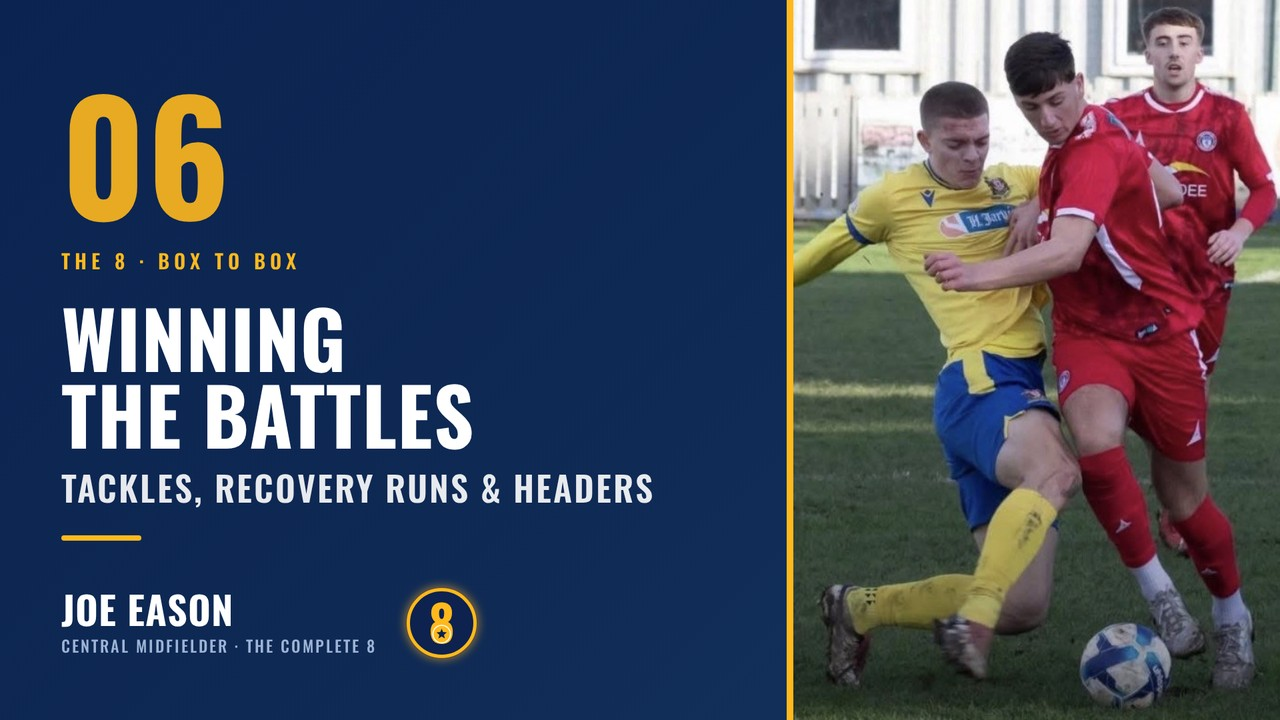
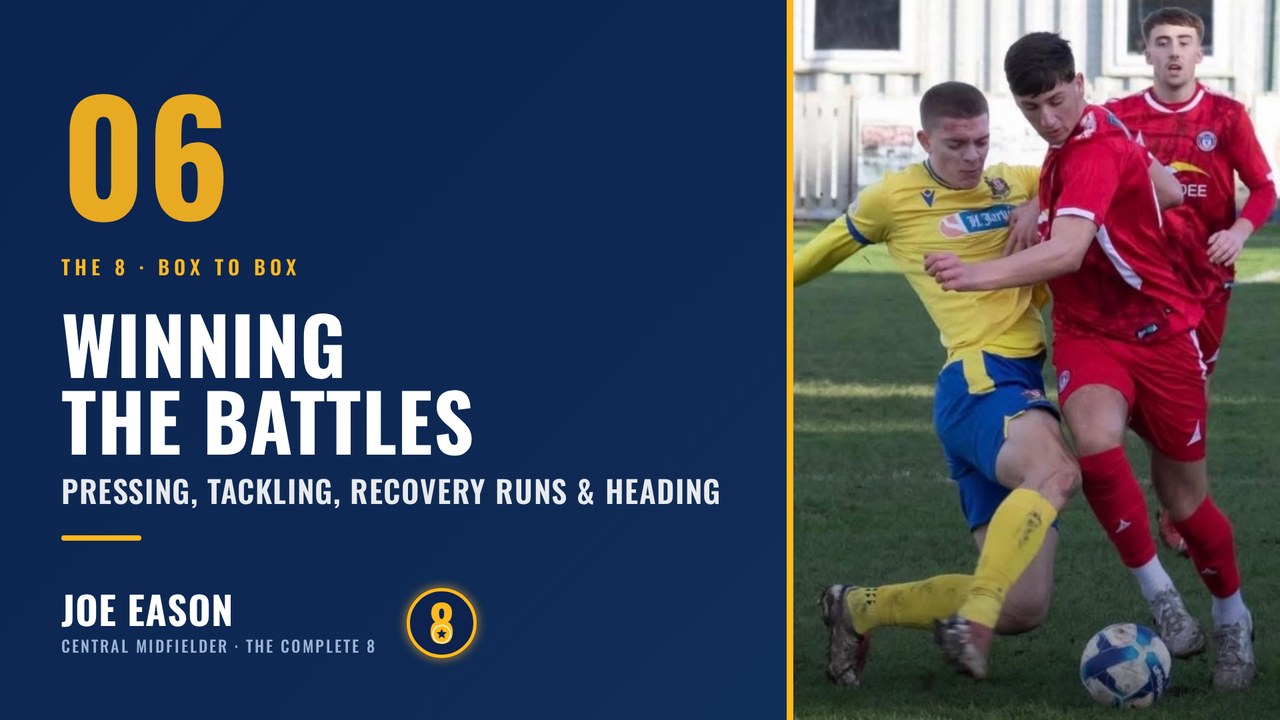
Videos

diff --git a/_test-home-8.html b/_test-home-8.html
@@ -1155,7 +1155,7 @@
             <g transform="translate(400.00 90.00)"><g class="petal-play"><circle r="24" fill="rgba(0,48,135,0.95)" stroke="#fff" stroke-width="2"/><polygon points="-7,-10 -7,10 10,0" fill="#fff"/></g></g>
             <g class="pt-full"><text x="400.00" y="192.00" class="petal-title" text-anchor="middle"><tspan x="400.00" dy="0">Press Resistance</tspan><tspan x="400.00" dy="18" class="petal-sub">Receiving &amp; Turning</tspan></text>
           <text x="400.00" y="168.00" class="petal-num" text-anchor="middle">01</text></g><g class="pt-big"><text x="400.00" y="163.50" class="petal-num pt-n" text-anchor="middle">01</text><text x="400.00" y="190.50" class="pt-t" text-anchor="middle"><tspan x="400.00" dy="0">Press</tspan><tspan x="400.00" dy="25">Resistance</tspan></text></g></a>
-          <a href="https://www.youtube.com/watch?v=Go0xgLNT-0k" target="_blank" rel="noopener" class="petal g6" data-vid="Go0xgLNT-0k" data-title="Screening the Back Four: Blocks, Cover &amp; Interceptions" aria-label="Screening the Back Four: Blocks, Cover & Interceptions — play video">
+          <a href="https://www.youtube.com/watch?v=RQgMkaj3DGI" target="_blank" rel="noopener" class="petal g6" data-vid="RQgMkaj3DGI" data-title="Screening the Back Four: Blocks, Cover &amp; Interceptions" aria-label="Screening the Back Four: Blocks, Cover & Interceptions — play video">
             <path d="M 467.68 268.38 A 148 148 0 0 1 543.38 363.30 L 768.13 305.77 A 380 380 0 0 0 573.78 62.07 Z" fill="url(#pat-p1)" class="petal-img"/>
             <path d="M 467.68 268.38 A 148 148 0 0 1 543.38 363.30 L 768.13 305.77 A 380 380 0 0 0 573.78 62.07 Z" fill="url(#darken)" class="petal-shade"/>
             <path d="M 467.68 268.38 A 148 148 0 0 1 543.38 363.30 L 768.13 305.77 A 380 380 0 0 0 573.78 62.07 Z" class="petal-stroke" fill="none"/>
@@ -1176,19 +1176,19 @@
             <g transform="translate(534.50 679.30)"><g class="petal-play"><circle r="24" fill="rgba(0,48,135,0.95)" stroke="#fff" stroke-width="2"/><polygon points="-7,-10 -7,10 10,0" fill="#fff"/></g></g>
             <g class="pt-full"><text x="490.25" y="579.40" class="petal-title" text-anchor="middle"><tspan x="490.25" dy="0">Running the Game</tspan><tspan x="490.25" dy="18" class="petal-sub">Controlling the Tempo</tspan><tspan x="490.25" dy="16" class="petal-sub">&amp; Breaking Lines</tspan></text>
           <text x="490.25" y="555.40" class="petal-num" text-anchor="middle">04</text></g><g class="pt-big"><text x="490.25" y="558.90" class="petal-num pt-n" text-anchor="middle">04</text><text x="490.25" y="585.90" class="pt-t" text-anchor="middle"><tspan x="490.25" dy="0">Running</tspan><tspan x="490.25" dy="25">the Game</tspan></text></g></a>
-          <a href="https://www.youtube.com/watch?v=tidNVF270xU" target="_blank" rel="noopener" class="petal g8" data-vid="tidNVF270xU" data-title="Driving the Team Forward: Ball Carrying" aria-label="Driving the Team Forward: Ball Carrying — play video">
+          <a href="https://www.youtube.com/watch?v=B1waNOyC7ts" target="_blank" rel="noopener" class="petal g8" data-vid="B1waNOyC7ts" data-title="Driving the Team Forward: Ball Carrying" aria-label="Driving the Team Forward: Ball Carrying — play video">
             <path d="M 396.13 547.95 A 148 148 0 0 1 286.74 495.27 L 109.21 644.62 A 380 380 0 0 0 390.05 779.87 Z" fill="url(#pat-p4)" class="petal-img"/>
             <path d="M 396.13 547.95 A 148 148 0 0 1 286.74 495.27 L 109.21 644.62 A 380 380 0 0 0 390.05 779.87 Z" fill="url(#darken)" class="petal-shade"/>
             <path d="M 396.13 547.95 A 148 148 0 0 1 286.74 495.27 L 109.21 644.62 A 380 380 0 0 0 390.05 779.87 Z" class="petal-stroke" fill="none"/>
             <g transform="translate(265.50 679.30)"><g class="petal-play"><circle r="24" fill="rgba(0,48,135,0.95)" stroke="#fff" stroke-width="2"/><polygon points="-7,-10 -7,10 10,0" fill="#fff"/></g></g>
             <g class="pt-full"><text x="309.75" y="578.40" class="petal-title" text-anchor="middle"><tspan x="309.75" dy="0">Driving the</tspan><tspan x="309.75" dy="18">Team Forward</tspan><tspan x="309.75" dy="18" class="petal-sub">Ball Carrying</tspan></text>
           <text x="309.75" y="554.40" class="petal-num" text-anchor="middle">05</text></g><g class="pt-big"><text x="309.75" y="558.90" class="petal-num pt-n" text-anchor="middle">05</text><text x="309.75" y="585.90" class="pt-t" text-anchor="middle"><tspan x="309.75" dy="0">Driving the</tspan><tspan x="309.75" dy="25">Team Forward</tspan></text></g></a>
-          <a href="https://www.youtube.com/watch?v=xvypi_6BQps" target="_blank" rel="noopener" class="petal g8" data-vid="xvypi_6BQps" data-title="Winning the Battles: Tackles, Recovery Runs &amp; Headers" aria-label="Winning the Battles: Tackles, Recovery Runs & Headers — play video">
+          <a href="https://www.youtube.com/watch?v=xvypi_6BQps" target="_blank" rel="noopener" class="petal g8" data-vid="xvypi_6BQps" data-title="Winning the Battles: Pressing, Tackling, Recovery Runs &amp; Heading" aria-label="Winning the Battles: Pressing, Tackling, Recovery Runs & Heading — play video">
             <path d="M 281.91 489.22 A 148 148 0 0 1 254.90 370.86 L 27.44 325.17 A 380 380 0 0 0 96.80 629.07 Z" fill="url(#pat-p5)" class="petal-img"/>
             <path d="M 281.91 489.22 A 148 148 0 0 1 254.90 370.86 L 27.44 325.17 A 380 380 0 0 0 96.80 629.07 Z" fill="url(#darken)" class="petal-shade"/>
             <path d="M 281.91 489.22 A 148 148 0 0 1 254.90 370.86 L 27.44 325.17 A 380 380 0 0 0 96.80 629.07 Z" class="petal-stroke" fill="none"/>
             <g transform="translate(97.77 468.98)"><g class="petal-play"><circle r="24" fill="rgba(0,48,135,0.95)" stroke="#fff" stroke-width="2"/><polygon points="-7,-10 -7,10 10,0" fill="#fff"/></g></g>
-            <g class="pt-full"><text x="197.21" y="428.28" class="petal-title" text-anchor="middle"><tspan x="197.21" dy="0">Winning</tspan><tspan x="197.21" dy="18">the Battles</tspan><tspan x="197.21" dy="18" class="petal-sub">Tackles, Recovery</tspan><tspan x="197.21" dy="16" class="petal-sub">Runs &amp; Headers</tspan></text>
+            <g class="pt-full"><text x="197.21" y="428.28" class="petal-title" text-anchor="middle"><tspan x="197.21" dy="0">Winning</tspan><tspan x="197.21" dy="18">the Battles</tspan><tspan x="197.21" dy="18" class="petal-sub">Pressing, Tackling,</tspan><tspan x="197.21" dy="16" class="petal-sub">Recovery Runs &amp; Heading</tspan></text>
           <text x="197.21" y="404.28" class="petal-num" text-anchor="middle">06</text></g><g class="pt-big"><text x="197.21" y="416.78" class="petal-num pt-n" text-anchor="middle">06</text><text x="197.21" y="443.78" class="pt-t" text-anchor="middle"><tspan x="197.21" dy="0">Winning</tspan><tspan x="197.21" dy="25">the Battles</tspan></text></g></a>
           <a href="https://www.youtube.com/watch?v=DMwCNd98Mjw" target="_blank" rel="noopener" class="petal g8" data-vid="DMwCNd98Mjw" data-title="Technical Quality: First Touch, Volleys &amp; Quick Feet" aria-label="Technical Quality: First Touch, Volleys & Quick Feet — play video">
             <path d="M 256.62 363.30 A 148 148 0 0 1 332.32 268.38 L 226.22 62.07 A 380 380 0 0 0 31.87 305.77 Z" fill="url(#pat-p6)" class="petal-img"/>
@@ -1225,7 +1225,7 @@
           <div class="m-tile-thumb"><img src="img/card-01.jpg" alt=""></div>
           <div class="m-tile-body"><h3><span class="m-num">01</span>Press Resistance: Receiving &amp; Turning</h3><p>Back foot, play forward</p></div>
         </a>
-        <a href="https://www.youtube.com/watch?v=Go0xgLNT-0k" target="_blank" rel="noopener" class="m-tile g6" data-vid="Go0xgLNT-0k" data-title="Screening the Back Four: Blocks, Cover &amp; Interceptions">
+        <a href="https://www.youtube.com/watch?v=RQgMkaj3DGI" target="_blank" rel="noopener" class="m-tile g6" data-vid="RQgMkaj3DGI" data-title="Screening the Back Four: Blocks, Cover &amp; Interceptions">
           <div class="m-tile-thumb"><img src="img/card-02.jpg" alt=""></div>
           <div class="m-tile-body"><h3><span class="m-num">02</span>Screening the Back Four: Blocks, Cover &amp; Interceptions</h3><p>Reading it, stepping in, screening the back four</p></div>
         </a>
@@ -1239,13 +1239,13 @@
           <div class="m-tile-body"><h3><span class="m-num">04</span>Running the Game: Controlling the Tempo &amp; Breaking Lines</h3><p>Playing through, always available, setting the pace</p></div>
         </a>
         <div class="m-group g8"><b>The 8</b>Box to box &middot; 05&ndash;07</div>
-        <a href="https://www.youtube.com/watch?v=tidNVF270xU" target="_blank" rel="noopener" class="m-tile g8" data-vid="tidNVF270xU" data-title="Driving the Team Forward: Ball Carrying">
+        <a href="https://www.youtube.com/watch?v=B1waNOyC7ts" target="_blank" rel="noopener" class="m-tile g8" data-vid="B1waNOyC7ts" data-title="Driving the Team Forward: Ball Carrying">
           <div class="m-tile-thumb"><img src="img/card-05.jpg" alt=""></div>
           <div class="m-tile-body"><h3><span class="m-num">05</span>Driving the Team Forward: Ball Carrying</h3><p>Driving runs, beating pressure</p></div>
         </a>
-        <a href="https://www.youtube.com/watch?v=xvypi_6BQps" target="_blank" rel="noopener" class="m-tile g8" data-vid="xvypi_6BQps" data-title="Winning the Battles: Tackles, Recovery Runs &amp; Headers">
+        <a href="https://www.youtube.com/watch?v=xvypi_6BQps" target="_blank" rel="noopener" class="m-tile g8" data-vid="xvypi_6BQps" data-title="Winning the Battles: Pressing, Tackling, Recovery Runs &amp; Heading">
           <div class="m-tile-thumb"><img src="img/card-06.jpg" alt=""></div>
-          <div class="m-tile-body"><h3><span class="m-num">06</span>Winning the Battles: Tackles, Recovery Runs &amp; Headers</h3><p>Going in, getting back, winning in the air</p></div>
+          <div class="m-tile-body"><h3><span class="m-num">06</span>Winning the Battles: Pressing, Tackling, Recovery Runs &amp; Heading</h3><p>Going in, getting back, winning in the air</p></div>
         </a>
         <a href="https://www.youtube.com/watch?v=DMwCNd98Mjw" target="_blank" rel="noopener" class="m-tile g8" data-vid="DMwCNd98Mjw" data-title="Technical Quality: First Touch, Volleys &amp; Quick Feet">
           <div class="m-tile-thumb"><img src="img/card-07.jpg" alt=""></div>
@@ -1269,9 +1269,9 @@
         <h2>The Complete 8</h2>
         <p>Seven competencies on film at Step 4 and Step 5, plus the intangibles that make the eighth &mdash; and the end product it all adds up to.</p>
         <a class="h8-analysis" href="central-midfielder.html"><span>What makes a good all-round central midfielder?</span><b>Read the analysis <i class="fas fa-arrow-right"></i></b></a>
-        <div class="kg kg6"><div class="kg-h"><span class="kg-t">The 6</span><span class="kg-s">Holding midfielder &middot; 01&ndash;03</span></div><a class="ki" data-k="0" href="https://www.youtube.com/watch?v=nmPGCvV8c5w" target="_blank" rel="noopener" data-vid="nmPGCvV8c5w" data-title="Press Resistance: Receiving &amp; Turning"><b>01</b><span class="ki-t">Press Resistance</span><span class="ki-s">Receiving &amp; Turning</span><span class="ki-d">Back foot, play forward</span></a><a class="ki" data-k="1" href="https://www.youtube.com/watch?v=Go0xgLNT-0k" target="_blank" rel="noopener" data-vid="Go0xgLNT-0k" data-title="Screening the Back Four: Blocks, Cover &amp; Interceptions"><b>02</b><span class="ki-t">Screening the Back Four</span><span class="ki-s">Blocks, Cover &amp; Interceptions</span><span class="ki-d">Reading it, stepping in, screening the back four</span></a><a class="ki" data-k="2" href="https://www.youtube.com/watch?v=DRo2E2lNBT0" target="_blank" rel="noopener" data-vid="DRo2E2lNBT0" data-title="Range of Passing: Forward Balls, Switches &amp; Crosses"><b>03</b><span class="ki-t">Range of Passing</span><span class="ki-s">Forward Balls, Switches &amp; Crosses</span><span class="ki-d">Switching play, crossing, delivery</span></a></div>
+        <div class="kg kg6"><div class="kg-h"><span class="kg-t">The 6</span><span class="kg-s">Holding midfielder &middot; 01&ndash;03</span></div><a class="ki" data-k="0" href="https://www.youtube.com/watch?v=nmPGCvV8c5w" target="_blank" rel="noopener" data-vid="nmPGCvV8c5w" data-title="Press Resistance: Receiving &amp; Turning"><b>01</b><span class="ki-t">Press Resistance</span><span class="ki-s">Receiving &amp; Turning</span><span class="ki-d">Back foot, play forward</span></a><a class="ki" data-k="1" href="https://www.youtube.com/watch?v=RQgMkaj3DGI" target="_blank" rel="noopener" data-vid="RQgMkaj3DGI" data-title="Screening the Back Four: Blocks, Cover &amp; Interceptions"><b>02</b><span class="ki-t">Screening the Back Four</span><span class="ki-s">Blocks, Cover &amp; Interceptions</span><span class="ki-d">Reading it, stepping in, screening the back four</span></a><a class="ki" data-k="2" href="https://www.youtube.com/watch?v=DRo2E2lNBT0" target="_blank" rel="noopener" data-vid="DRo2E2lNBT0" data-title="Range of Passing: Forward Balls, Switches &amp; Crosses"><b>03</b><span class="ki-t">Range of Passing</span><span class="ki-s">Forward Balls, Switches &amp; Crosses</span><span class="ki-d">Switching play, crossing, delivery</span></a></div>
         <div class="kg kgh"><div class="kg-h"><span class="kg-t">Running the Game</span><span class="kg-s">The 6 into the 8 &middot; 04</span></div><a class="ki" data-k="3" href="https://www.youtube.com/watch?v=Oh14U_1x-bk" target="_blank" rel="noopener" data-vid="Oh14U_1x-bk" data-title="Running the Game: Controlling the Tempo &amp; Breaking Lines"><b>04</b><span class="ki-t">Running the Game</span><span class="ki-s">Controlling the Tempo &amp; Breaking Lines</span><span class="ki-d">Playing through, always available, setting the pace</span></a></div>
-        <div class="kg kg8"><div class="kg-h"><span class="kg-t">The 8</span><span class="kg-s">Box to box &middot; 05&ndash;07</span></div><a class="ki" data-k="4" href="https://www.youtube.com/watch?v=tidNVF270xU" target="_blank" rel="noopener" data-vid="tidNVF270xU" data-title="Driving the Team Forward: Ball Carrying"><b>05</b><span class="ki-t">Driving the Team Forward</span><span class="ki-s">Ball Carrying</span><span class="ki-d">Driving runs, beating pressure</span></a><a class="ki" data-k="5" href="https://www.youtube.com/watch?v=xvypi_6BQps" target="_blank" rel="noopener" data-vid="xvypi_6BQps" data-title="Winning the Battles: Tackles, Recovery Runs &amp; Headers"><b>06</b><span class="ki-t">Winning the Battles</span><span class="ki-s">Tackles, Recovery Runs &amp; Headers</span><span class="ki-d">Going in, getting back, winning in the air</span></a><a class="ki" data-k="6" href="https://www.youtube.com/watch?v=DMwCNd98Mjw" target="_blank" rel="noopener" data-vid="DMwCNd98Mjw" data-title="Technical Quality: First Touch, Volleys &amp; Quick Feet"><b>07</b><span class="ki-t">Technical Quality</span><span class="ki-s">First Touch, Volleys &amp; Quick Feet</span><span class="ki-d">First touch, composure, execution</span></a></div>
+        <div class="kg kg8"><div class="kg-h"><span class="kg-t">The 8</span><span class="kg-s">Box to box &middot; 05&ndash;07</span></div><a class="ki" data-k="4" href="https://www.youtube.com/watch?v=B1waNOyC7ts" target="_blank" rel="noopener" data-vid="B1waNOyC7ts" data-title="Driving the Team Forward: Ball Carrying"><b>05</b><span class="ki-t">Driving the Team Forward</span><span class="ki-s">Ball Carrying</span><span class="ki-d">Driving runs, beating pressure</span></a><a class="ki" data-k="5" href="https://www.youtube.com/watch?v=xvypi_6BQps" target="_blank" rel="noopener" data-vid="xvypi_6BQps" data-title="Winning the Battles: Pressing, Tackling, Recovery Runs &amp; Heading"><b>06</b><span class="ki-t">Winning the Battles</span><span class="ki-s">Pressing, Tackling, Recovery Runs &amp; Heading</span><span class="ki-d">Going in, getting back, winning in the air</span></a><a class="ki" data-k="6" href="https://www.youtube.com/watch?v=DMwCNd98Mjw" target="_blank" rel="noopener" data-vid="DMwCNd98Mjw" data-title="Technical Quality: First Touch, Volleys &amp; Quick Feet"><b>07</b><span class="ki-t">Technical Quality</span><span class="ki-s">First Touch, Volleys &amp; Quick Feet</span><span class="ki-d">First touch, composure, execution</span></a></div>
         <div class="kg kg10"><div class="kg-h"><span class="kg-t">08 + The 10</span><span class="kg-s">In the middle</span></div><a class="ki ki8th" data-k="8th" href="central-midfielder.html#leadership"><b>08</b><span class="ki-t">The Bit You Can&rsquo;t Coach</span><span class="ki-s">The Intangibles</span><span class="ki-d">Leadership and on-field personality</span></a><a class="ki ki10" data-k="10" href="https://www.youtube.com/watch?v=8nT0fmOoSeg" target="_blank" rel="noopener" data-vid="8nT0fmOoSeg" data-title="End Product: Chances Created, Assists &amp; Goals" data-more="central-midfielder.html#end-product"><b>10</b><span class="ki-t">End Product</span><span class="ki-s">Chances Created, Assists &amp; Goals</span><span class="ki-d">From senior men&rsquo;s football at Step 5 and Step 4</span></a></div>
       </div>
   </div>

diff --git a/index.html b/index.html
@@ -1150,7 +1150,7 @@
             <g transform="translate(400.00 90.00)"><g class="petal-play"><circle r="24" fill="rgba(0,48,135,0.95)" stroke="#fff" stroke-width="2"/><polygon points="-7,-10 -7,10 10,0" fill="#fff"/></g></g>
             <g class="pt-full"><text x="400.00" y="192.00" class="petal-title" text-anchor="middle"><tspan x="400.00" dy="0">Press Resistance</tspan><tspan x="400.00" dy="18" class="petal-sub">Receiving &amp; Turning</tspan></text>
           <text x="400.00" y="168.00" class="petal-num" text-anchor="middle">01</text></g><g class="pt-big"><text x="400.00" y="163.50" class="petal-num pt-n" text-anchor="middle">01</text><text x="400.00" y="190.50" class="pt-t" text-anchor="middle"><tspan x="400.00" dy="0">Press</tspan><tspan x="400.00" dy="25">Resistance</tspan></text></g></a>
-          <a href="https://www.youtube.com/watch?v=Go0xgLNT-0k" target="_blank" rel="noopener" class="petal g6" data-vid="Go0xgLNT-0k" data-title="Screening the Back Four: Blocks, Cover &amp; Interceptions" aria-label="Screening the Back Four: Blocks, Cover & Interceptions — play video">
+          <a href="https://www.youtube.com/watch?v=RQgMkaj3DGI" target="_blank" rel="noopener" class="petal g6" data-vid="RQgMkaj3DGI" data-title="Screening the Back Four: Blocks, Cover &amp; Interceptions" aria-label="Screening the Back Four: Blocks, Cover & Interceptions — play video">
             <path d="M 467.68 268.38 A 148 148 0 0 1 543.38 363.30 L 768.13 305.77 A 380 380 0 0 0 573.78 62.07 Z" fill="url(#pat-p1)" class="petal-img"/>
             <path d="M 467.68 268.38 A 148 148 0 0 1 543.38 363.30 L 768.13 305.77 A 380 380 0 0 0 573.78 62.07 Z" fill="url(#darken)" class="petal-shade"/>
             <path d="M 467.68 268.38 A 148 148 0 0 1 543.38 363.30 L 768.13 305.77 A 380 380 0 0 0 573.78 62.07 Z" class="petal-stroke" fill="none"/>
@@ -1171,19 +1171,19 @@
             <g transform="translate(534.50 679.30)"><g class="petal-play"><circle r="24" fill="rgba(0,48,135,0.95)" stroke="#fff" stroke-width="2"/><polygon points="-7,-10 -7,10 10,0" fill="#fff"/></g></g>
             <g class="pt-full"><text x="490.25" y="579.40" class="petal-title" text-anchor="middle"><tspan x="490.25" dy="0">Running the Game</tspan><tspan x="490.25" dy="18" class="petal-sub">Controlling the Tempo</tspan><tspan x="490.25" dy="16" class="petal-sub">&amp; Breaking Lines</tspan></text>
           <text x="490.25" y="555.40" class="petal-num" text-anchor="middle">04</text></g><g class="pt-big"><text x="490.25" y="558.90" class="petal-num pt-n" text-anchor="middle">04</text><text x="490.25" y="585.90" class="pt-t" text-anchor="middle"><tspan x="490.25" dy="0">Running</tspan><tspan x="490.25" dy="25">the Game</tspan></text></g></a>
-          <a href="https://www.youtube.com/watch?v=tidNVF270xU" target="_blank" rel="noopener" class="petal g8" data-vid="tidNVF270xU" data-title="Driving the Team Forward: Ball Carrying" aria-label="Driving the Team Forward: Ball Carrying — play video">
+          <a href="https://www.youtube.com/watch?v=B1waNOyC7ts" target="_blank" rel="noopener" class="petal g8" data-vid="B1waNOyC7ts" data-title="Driving the Team Forward: Ball Carrying" aria-label="Driving the Team Forward: Ball Carrying — play video">
             <path d="M 396.13 547.95 A 148 148 0 0 1 286.74 495.27 L 109.21 644.62 A 380 380 0 0 0 390.05 779.87 Z" fill="url(#pat-p4)" class="petal-img"/>
             <path d="M 396.13 547.95 A 148 148 0 0 1 286.74 495.27 L 109.21 644.62 A 380 380 0 0 0 390.05 779.87 Z" fill="url(#darken)" class="petal-shade"/>
             <path d="M 396.13 547.95 A 148 148 0 0 1 286.74 495.27 L 109.21 644.62 A 380 380 0 0 0 390.05 779.87 Z" class="petal-stroke" fill="none"/>
             <g transform="translate(265.50 679.30)"><g class="petal-play"><circle r="24" fill="rgba(0,48,135,0.95)" stroke="#fff" stroke-width="2"/><polygon points="-7,-10 -7,10 10,0" fill="#fff"/></g></g>
             <g class="pt-full"><text x="309.75" y="578.40" class="petal-title" text-anchor="middle"><tspan x="309.75" dy="0">Driving the</tspan><tspan x="309.75" dy="18">Team Forward</tspan><tspan x="309.75" dy="18" class="petal-sub">Ball Carrying</tspan></text>
           <text x="309.75" y="554.40" class="petal-num" text-anchor="middle">05</text></g><g class="pt-big"><text x="309.75" y="558.90" class="petal-num pt-n" text-anchor="middle">05</text><text x="309.75" y="585.90" class="pt-t" text-anchor="middle"><tspan x="309.75" dy="0">Driving the</tspan><tspan x="309.75" dy="25">Team Forward</tspan></text></g></a>
-          <a href="https://www.youtube.com/watch?v=xvypi_6BQps" target="_blank" rel="noopener" class="petal g8" data-vid="xvypi_6BQps" data-title="Winning the Battles: Tackles, Recovery Runs &amp; Headers" aria-label="Winning the Battles: Tackles, Recovery Runs & Headers — play video">
+          <a href="https://www.youtube.com/watch?v=xvypi_6BQps" target="_blank" rel="noopener" class="petal g8" data-vid="xvypi_6BQps" data-title="Winning the Battles: Pressing, Tackling, Recovery Runs &amp; Heading" aria-label="Winning the Battles: Pressing, Tackling, Recovery Runs & Heading — play video">
             <path d="M 281.91 489.22 A 148 148 0 0 1 254.90 370.86 L 27.44 325.17 A 380 380 0 0 0 96.80 629.07 Z" fill="url(#pat-p5)" class="petal-img"/>
             <path d="M 281.91 489.22 A 148 148 0 0 1 254.90 370.86 L 27.44 325.17 A 380 380 0 0 0 96.80 629.07 Z" fill="url(#darken)" class="petal-shade"/>
             <path d="M 281.91 489.22 A 148 148 0 0 1 254.90 370.86 L 27.44 325.17 A 380 380 0 0 0 96.80 629.07 Z" class="petal-stroke" fill="none"/>
             <g transform="translate(97.77 468.98)"><g class="petal-play"><circle r="24" fill="rgba(0,48,135,0.95)" stroke="#fff" stroke-width="2"/><polygon points="-7,-10 -7,10 10,0" fill="#fff"/></g></g>
-            <g class="pt-full"><text x="197.21" y="428.28" class="petal-title" text-anchor="middle"><tspan x="197.21" dy="0">Winning</tspan><tspan x="197.21" dy="18">the Battles</tspan><tspan x="197.21" dy="18" class="petal-sub">Tackles, Recovery</tspan><tspan x="197.21" dy="16" class="petal-sub">Runs &amp; Headers</tspan></text>
+            <g class="pt-full"><text x="197.21" y="428.28" class="petal-title" text-anchor="middle"><tspan x="197.21" dy="0">Winning</tspan><tspan x="197.21" dy="18">the Battles</tspan><tspan x="197.21" dy="18" class="petal-sub">Pressing, Tackling,</tspan><tspan x="197.21" dy="16" class="petal-sub">Recovery Runs &amp; Heading</tspan></text>
           <text x="197.21" y="404.28" class="petal-num" text-anchor="middle">06</text></g><g class="pt-big"><text x="197.21" y="416.78" class="petal-num pt-n" text-anchor="middle">06</text><text x="197.21" y="443.78" class="pt-t" text-anchor="middle"><tspan x="197.21" dy="0">Winning</tspan><tspan x="197.21" dy="25">the Battles</tspan></text></g></a>
           <a href="https://www.youtube.com/watch?v=DMwCNd98Mjw" target="_blank" rel="noopener" class="petal g8" data-vid="DMwCNd98Mjw" data-title="Technical Quality: First Touch, Volleys &amp; Quick Feet" aria-label="Technical Quality: First Touch, Volleys & Quick Feet — play video">
             <path d="M 256.62 363.30 A 148 148 0 0 1 332.32 268.38 L 226.22 62.07 A 380 380 0 0 0 31.87 305.77 Z" fill="url(#pat-p6)" class="petal-img"/>
@@ -1220,7 +1220,7 @@
           <div class="m-tile-thumb"><img src="img/card-01.jpg" alt=""></div>
           <div class="m-tile-body"><h3><span class="m-num">01</span>Press Resistance: Receiving &amp; Turning</h3><p>Back foot, play forward</p></div>
         </a>
-        <a href="https://www.youtube.com/watch?v=Go0xgLNT-0k" target="_blank" rel="noopener" class="m-tile g6" data-vid="Go0xgLNT-0k" data-title="Screening the Back Four: Blocks, Cover &amp; Interceptions">
+        <a href="https://www.youtube.com/watch?v=RQgMkaj3DGI" target="_blank" rel="noopener" class="m-tile g6" data-vid="RQgMkaj3DGI" data-title="Screening the Back Four: Blocks, Cover &amp; Interceptions">
           <div class="m-tile-thumb"><img src="img/card-02.jpg" alt=""></div>
           <div class="m-tile-body"><h3><span class="m-num">02</span>Screening the Back Four: Blocks, Cover &amp; Interceptions</h3><p>Reading it, stepping in, screening the back four</p></div>
         </a>
@@ -1234,13 +1234,13 @@
           <div class="m-tile-body"><h3><span class="m-num">04</span>Running the Game: Controlling the Tempo &amp; Breaking Lines</h3><p>Playing through, always available, setting the pace</p></div>
         </a>
         <div class="m-group g8"><b>The 8</b>Box to box &middot; 05&ndash;07</div>
-        <a href="https://www.youtube.com/watch?v=tidNVF270xU" target="_blank" rel="noopener" class="m-tile g8" data-vid="tidNVF270xU" data-title="Driving the Team Forward: Ball Carrying">
+        <a href="https://www.youtube.com/watch?v=B1waNOyC7ts" target="_blank" rel="noopener" class="m-tile g8" data-vid="B1waNOyC7ts" data-title="Driving the Team Forward: Ball Carrying">
           <div class="m-tile-thumb"><img src="img/card-05.jpg" alt=""></div>
           <div class="m-tile-body"><h3><span class="m-num">05</span>Driving the Team Forward: Ball Carrying</h3><p>Driving runs, beating pressure</p></div>
         </a>
-        <a href="https://www.youtube.com/watch?v=xvypi_6BQps" target="_blank" rel="noopener" class="m-tile g8" data-vid="xvypi_6BQps" data-title="Winning the Battles: Tackles, Recovery Runs &amp; Headers">
+        <a href="https://www.youtube.com/watch?v=xvypi_6BQps" target="_blank" rel="noopener" class="m-tile g8" data-vid="xvypi_6BQps" data-title="Winning the Battles: Pressing, Tackling, Recovery Runs &amp; Heading">
           <div class="m-tile-thumb"><img src="img/card-06.jpg" alt=""></div>
-          <div class="m-tile-body"><h3><span class="m-num">06</span>Winning the Battles: Tackles, Recovery Runs &amp; Headers</h3><p>Going in, getting back, winning in the air</p></div>
+          <div class="m-tile-body"><h3><span class="m-num">06</span>Winning the Battles: Pressing, Tackling, Recovery Runs &amp; Heading</h3><p>Going in, getting back, winning in the air</p></div>
         </a>
         <a href="https://www.youtube.com/watch?v=DMwCNd98Mjw" target="_blank" rel="noopener" class="m-tile g8" data-vid="DMwCNd98Mjw" data-title="Technical Quality: First Touch, Volleys &amp; Quick Feet">
           <div class="m-tile-thumb"><img src="img/card-07.jpg" alt=""></div>
@@ -1264,9 +1264,9 @@
         <h2>The Complete 8</h2>
         <p>Seven competencies on film at Step 4 and Step 5, plus the intangibles that make the eighth &mdash; and the end product it all adds up to.</p>
         <a class="h8-analysis" href="central-midfielder.html"><span>What makes a good all-round central midfielder?</span><b>Read the analysis <i class="fas fa-arrow-right"></i></b></a>
-        <div class="kg kg6"><div class="kg-h"><span class="kg-t">The 6</span><span class="kg-s">Holding midfielder &middot; 01&ndash;03</span></div><a class="ki" data-k="0" href="https://www.youtube.com/watch?v=nmPGCvV8c5w" target="_blank" rel="noopener" data-vid="nmPGCvV8c5w" data-title="Press Resistance: Receiving &amp; Turning"><b>01</b><span class="ki-t">Press Resistance</span><span class="ki-s">Receiving &amp; Turning</span><span class="ki-d">Back foot, play forward</span></a><a class="ki" data-k="1" href="https://www.youtube.com/watch?v=Go0xgLNT-0k" target="_blank" rel="noopener" data-vid="Go0xgLNT-0k" data-title="Screening the Back Four: Blocks, Cover &amp; Interceptions"><b>02</b><span class="ki-t">Screening the Back Four</span><span class="ki-s">Blocks, Cover &amp; Interceptions</span><span class="ki-d">Reading it, stepping in, screening the back four</span></a><a class="ki" data-k="2" href="https://www.youtube.com/watch?v=DRo2E2lNBT0" target="_blank" rel="noopener" data-vid="DRo2E2lNBT0" data-title="Range of Passing: Forward Balls, Switches &amp; Crosses"><b>03</b><span class="ki-t">Range of Passing</span><span class="ki-s">Forward Balls, Switches &amp; Crosses</span><span class="ki-d">Switching play, crossing, delivery</span></a></div>
+        <div class="kg kg6"><div class="kg-h"><span class="kg-t">The 6</span><span class="kg-s">Holding midfielder &middot; 01&ndash;03</span></div><a class="ki" data-k="0" href="https://www.youtube.com/watch?v=nmPGCvV8c5w" target="_blank" rel="noopener" data-vid="nmPGCvV8c5w" data-title="Press Resistance: Receiving &amp; Turning"><b>01</b><span class="ki-t">Press Resistance</span><span class="ki-s">Receiving &amp; Turning</span><span class="ki-d">Back foot, play forward</span></a><a class="ki" data-k="1" href="https://www.youtube.com/watch?v=RQgMkaj3DGI" target="_blank" rel="noopener" data-vid="RQgMkaj3DGI" data-title="Screening the Back Four: Blocks, Cover &amp; Interceptions"><b>02</b><span class="ki-t">Screening the Back Four</span><span class="ki-s">Blocks, Cover &amp; Interceptions</span><span class="ki-d">Reading it, stepping in, screening the back four</span></a><a class="ki" data-k="2" href="https://www.youtube.com/watch?v=DRo2E2lNBT0" target="_blank" rel="noopener" data-vid="DRo2E2lNBT0" data-title="Range of Passing: Forward Balls, Switches &amp; Crosses"><b>03</b><span class="ki-t">Range of Passing</span><span class="ki-s">Forward Balls, Switches &amp; Crosses</span><span class="ki-d">Switching play, crossing, delivery</span></a></div>
         <div class="kg kgh"><div class="kg-h"><span class="kg-t">Running the Game</span><span class="kg-s">The 6 into the 8 &middot; 04</span></div><a class="ki" data-k="3" href="https://www.youtube.com/watch?v=Oh14U_1x-bk" target="_blank" rel="noopener" data-vid="Oh14U_1x-bk" data-title="Running the Game: Controlling the Tempo &amp; Breaking Lines"><b>04</b><span class="ki-t">Running the Game</span><span class="ki-s">Controlling the Tempo &amp; Breaking Lines</span><span class="ki-d">Playing through, always available, setting the pace</span></a></div>
-        <div class="kg kg8"><div class="kg-h"><span class="kg-t">The 8</span><span class="kg-s">Box to box &middot; 05&ndash;07</span></div><a class="ki" data-k="4" href="https://www.youtube.com/watch?v=tidNVF270xU" target="_blank" rel="noopener" data-vid="tidNVF270xU" data-title="Driving the Team Forward: Ball Carrying"><b>05</b><span class="ki-t">Driving the Team Forward</span><span class="ki-s">Ball Carrying</span><span class="ki-d">Driving runs, beating pressure</span></a><a class="ki" data-k="5" href="https://www.youtube.com/watch?v=xvypi_6BQps" target="_blank" rel="noopener" data-vid="xvypi_6BQps" data-title="Winning the Battles: Tackles, Recovery Runs &amp; Headers"><b>06</b><span class="ki-t">Winning the Battles</span><span class="ki-s">Tackles, Recovery Runs &amp; Headers</span><span class="ki-d">Going in, getting back, winning in the air</span></a><a class="ki" data-k="6" href="https://www.youtube.com/watch?v=DMwCNd98Mjw" target="_blank" rel="noopener" data-vid="DMwCNd98Mjw" data-title="Technical Quality: First Touch, Volleys &amp; Quick Feet"><b>07</b><span class="ki-t">Technical Quality</span><span class="ki-s">First Touch, Volleys &amp; Quick Feet</span><span class="ki-d">First touch, composure, execution</span></a></div>
+        <div class="kg kg8"><div class="kg-h"><span class="kg-t">The 8</span><span class="kg-s">Box to box &middot; 05&ndash;07</span></div><a class="ki" data-k="4" href="https://www.youtube.com/watch?v=B1waNOyC7ts" target="_blank" rel="noopener" data-vid="B1waNOyC7ts" data-title="Driving the Team Forward: Ball Carrying"><b>05</b><span class="ki-t">Driving the Team Forward</span><span class="ki-s">Ball Carrying</span><span class="ki-d">Driving runs, beating pressure</span></a><a class="ki" data-k="5" href="https://www.youtube.com/watch?v=xvypi_6BQps" target="_blank" rel="noopener" data-vid="xvypi_6BQps" data-title="Winning the Battles: Pressing, Tackling, Recovery Runs &amp; Heading"><b>06</b><span class="ki-t">Winning the Battles</span><span class="ki-s">Pressing, Tackling, Recovery Runs &amp; Heading</span><span class="ki-d">Going in, getting back, winning in the air</span></a><a class="ki" data-k="6" href="https://www.youtube.com/watch?v=DMwCNd98Mjw" target="_blank" rel="noopener" data-vid="DMwCNd98Mjw" data-title="Technical Quality: First Touch, Volleys &amp; Quick Feet"><b>07</b><span class="ki-t">Technical Quality</span><span class="ki-s">First Touch, Volleys &amp; Quick Feet</span><span class="ki-d">First touch, composure, execution</span></a></div>
         <div class="kg kg10"><div class="kg-h"><span class="kg-t">08 + The 10</span><span class="kg-s">In the middle</span></div><a class="ki ki8th" data-k="8th" href="central-midfielder.html#leadership"><b>08</b><span class="ki-t">The Bit You Can&rsquo;t Coach</span><span class="ki-s">The Intangibles</span><span class="ki-d">Leadership and on-field personality</span></a><a class="ki ki10" data-k="10" href="https://www.youtube.com/watch?v=8nT0fmOoSeg" target="_blank" rel="noopener" data-vid="8nT0fmOoSeg" data-title="End Product: Chances Created, Assists &amp; Goals" data-more="central-midfielder.html#end-product"><b>10</b><span class="ki-t">End Product</span><span class="ki-s">Chances Created, Assists &amp; Goals</span><span class="ki-d">From senior men&rsquo;s football at Step 5 and Step 4</span></a></div>
       </div>
   </div>

diff --git a/central-midfielder.html b/central-midfielder.html
@@ -793,7 +793,7 @@
       </button>
       <button class="c8-tab g8" data-tab="7" role="tab" aria-selected="false" type="button">
         <div class="c8-tab-thumb"><img src="img/card-06.jpg" alt=""><span class="c8-tab-num">06</span></div>
-        <div class="c8-tab-title">Winning the Battles: Tackles, Recovery Runs &amp; Headers</div>
+        <div class="c8-tab-title">Winning the Battles: Pressing, Tackling, Recovery Runs &amp; Heading</div>
       </button>
       <button class="c8-tab g8" data-tab="2" role="tab" aria-selected="false" type="button">
         <div class="c8-tab-thumb"><img src="img/card-07.jpg" alt=""><span class="c8-tab-num">07</span></div>
@@ -835,7 +835,7 @@
             </div>
           </div>
           <p class="case-lead">A number 8 who can only recycle gives the opposition time to reset. The complete version <strong>takes the ball forward themselves</strong> — recognising the moment, breaking the line before cover arrives, and forcing defenders to commit. Without ball-carrying weight in midfield, the team has to play wider or rely on patterns the opposition can read.</p>
-          <a href="https://www.youtube.com/watch?v=tidNVF270xU" target="_blank" rel="noopener" class="skill-video" data-vid="tidNVF270xU" id="vid-1">
+          <a href="https://www.youtube.com/watch?v=B1waNOyC7ts" target="_blank" rel="noopener" class="skill-video" data-vid="B1waNOyC7ts" id="vid-1">
             <img src="img/card-05.jpg" alt="Driving the Team Forward: Ball Carrying">
             <div class="play-btn"><i class="fas fa-play"></i></div>
             <div class="vid-label"><i class="fas fa-play" style="font-size:8px;margin-right:4px;"></i> Watch Video</div>
@@ -1095,7 +1095,7 @@
             </div>
           </div>
           <p class="case-lead">A midfielder who can't defend is half a player. The complete 8 <strong>reads the game early</strong>, wins the ball cleanly when needed, and covers ground for the centre-backs without being asked. The video shows the actions. The chart underneath shows the season-long outcome.</p>
-          <a href="https://www.youtube.com/watch?v=Go0xgLNT-0k" target="_blank" rel="noopener" class="skill-video" data-vid="Go0xgLNT-0k" id="vid-6">
+          <a href="https://www.youtube.com/watch?v=RQgMkaj3DGI" target="_blank" rel="noopener" class="skill-video" data-vid="RQgMkaj3DGI" id="vid-6">
             <img src="img/card-02.jpg" alt="Screening the Back Four: Blocks, Cover & Interceptions">
             <div class="play-btn"><i class="fas fa-play"></i></div>
             <div class="vid-label"><i class="fas fa-play" style="font-size:8px;margin-right:4px;"></i> Watch Video</div>
@@ -1167,12 +1167,12 @@
             <span class="num">06</span>
             <div class="heads">
               <span class="role">What a complete 8 needs to do</span>
-              <h3>Winning the Battles: Tackles, Recovery Runs &amp; Headers</h3>
+              <h3>Winning the Battles: Pressing, Tackling, Recovery Runs &amp; Heading</h3>
             </div>
           </div>
           <p class="case-lead">When the team loses the ball higher up, the 8 is usually <strong>first one back</strong>. Sprint back, get goal-side, deal with what arrives — including in the air. The video shows the runs and the duels. The athletic numbers underneath are what underwrites them.</p>
           <a href="https://www.youtube.com/watch?v=xvypi_6BQps" target="_blank" rel="noopener" class="skill-video" data-vid="xvypi_6BQps" id="vid-7">
-            <img src="img/card-06.jpg" alt="Winning the Battles: Tackles, Recovery Runs & Headers">
+            <img src="img/card-06.jpg" alt="Winning the Battles: Pressing, Tackling, Recovery Runs & Heading">
             <div class="play-btn"><i class="fas fa-play"></i></div>
             <div class="vid-label"><i class="fas fa-play" style="font-size:8px;margin-right:4px;"></i> Watch Video</div>
           </a>

diff --git a/_c8-start-card.html b/_c8-start-card.html
@@ -53,7 +53,7 @@ document.getElementById('eyebrow').textContent=q.get('e')||'';
 const t=document.getElementById('title'); t.innerHTML=q.get('t')||''; if((q.get('t')||'').length>22) t.classList.add('long');
 const s=document.getElementById('subt'); if(q.get('s')) s.textContent=q.get('s'); else s.remove();
 // a subline that only just spills onto a second line gets its letter-spacing eased until it fits on one (8 Nov 2026)
-document.fonts.ready.then(function(){const e=document.getElementById('subt'); if(!e) return; const lh=parseFloat(getComputedStyle(e).lineHeight)||e.getBoundingClientRect().height; let ls=3; const one=()=>{e.style.whiteSpace='nowrap'; const h1=e.getBoundingClientRect().height; e.style.whiteSpace=''; return h1;}; const h1=one(); while(e.getBoundingClientRect().height>h1+2 && ls>1.6){ls=+(ls-0.2).toFixed(1); e.style.letterSpacing=ls+'px';}});
+document.fonts.ready.then(function(){const e=document.getElementById('subt'); if(!e) return; const lh=parseFloat(getComputedStyle(e).lineHeight)||e.getBoundingClientRect().height; let ls=3; const one=()=>{e.style.whiteSpace='nowrap'; const h1=e.getBoundingClientRect().height; e.style.whiteSpace=''; return h1;}; const h1=one(); while(e.getBoundingClientRect().height>h1+2 && ls>1.6){ls=+(ls-0.2).toFixed(1); e.style.letterSpacing=ls+'px';} /* 11 Nov 2026: if it still wraps, step the size down until it fits on one line */ let fs=parseFloat(getComputedStyle(e).fontSize); while(e.getBoundingClientRect().height>h1+2 && fs>24){fs-=1; e.style.fontSize=fs+'px';}});
 const p=document.getElementById('photo'); const im=q.get('img')||''; p.src=im.includes('/')?im:'img/'+im; p.style.objectPosition=q.get('pos')||'center'; if(q.get('zoom')){p.style.transformOrigin=q.get('zo')||(q.get('pos')||'center'); p.style.transform='scale('+q.get('zoom')+')';}
 
 // optional 6 / 8 badges beside the name (?b=6 | 8 | 68), same design as the video rings.
